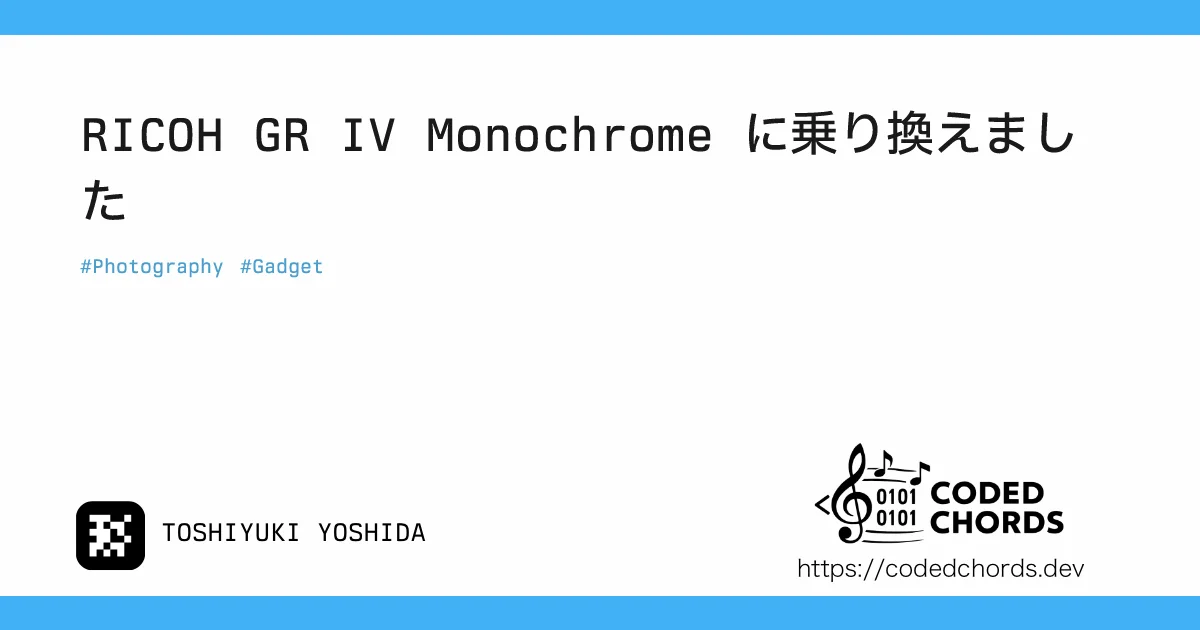
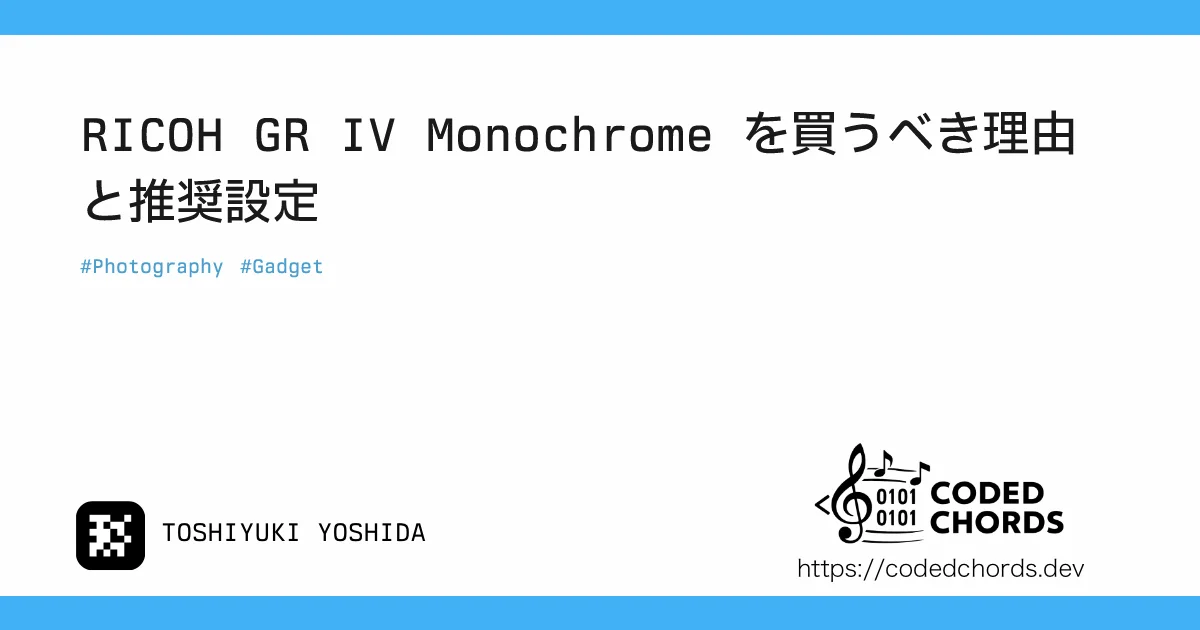
content: improve GR IV Monochrome article title and description

Changed region(s): [[0.0617, 0.2714, 0.2775, 0.3619], [0.6167, 0.181, 0.8942, 0.2413]]

diff --git a/content/blog/2026/05/gr-iv-monochrome/index.md b/content/blog/2026/05/gr-iv-monochrome/index.md
@@ -1,7 +1,8 @@
 +++
-title = "RICOH GR IV Monochrome に乗り換えました"
-description = """RICOH GR IIIx HDF を手放し、モノクロ写真しか撮れない RICOH GR IV Monochrome を購入しました。\
-高価でニッチな一台ですが、カラーフィルターを持たないセンサーの鮮明さに驚かされています。"""
+title = "RICOH GR IV Monochrome を買うべき理由と推奨設定"
+description = """モノクロ写真しか撮れず、価格は28万円前後。一見すると不便さにお金を払うだけのカメラです。\
+それでも RICOH GR IV Monochrome を選んだ理由と、マニュアル撮影でのISO感度の目安、\
+街歩き・カフェ・風景に分けた3つのユーザーモード設定をまとめます。"""
 date = 2026-05-21
 
 [taxonomies]
